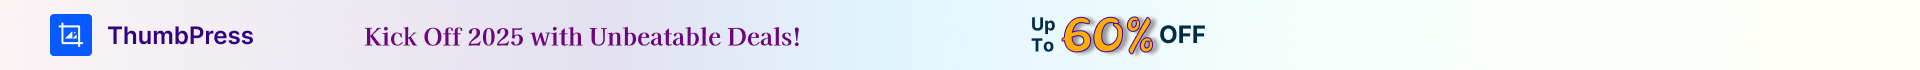
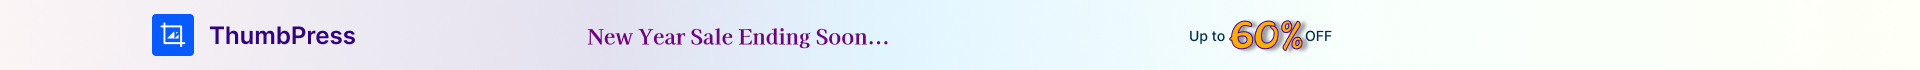
5.8.10

Changed region(s): [[0.0, 0.2, 0.4688, 0.8], [0.5312, 0.2286, 0.7188, 0.8]]

diff --git a/image-sizes/assets/css/settings/dashboard.css b/image-sizes/assets/css/settings/dashboard.css
@@ -1482,6 +1482,7 @@ ul.image_sizes-sortable.disable li span img.image_sizes-thumbnails-arrow-left {
 	background-size: contain;
 	background: url("../../img/kik-off.png") no-repeat;
 	background-position-y: center;
+	background-size: cover;
 }
 .image-sizes-dismissible-notice a {
 	text-decoration: none;
@@ -1505,7 +1506,7 @@ ul.image_sizes-sortable.disable li span img.image_sizes-thumbnails-arrow-left {
 	transform: scale(1.2);
 }
 .notice.notice-info.is-dismissible.image-sizes-dismissible-notice {
-	padding-right: 50px;
+	padding-right: 115px;
 }
 
 .image-sizes-dismissible-notice-content {

diff --git a/image-sizes/app/Settings.php b/image-sizes/app/Settings.php
@@ -134,9 +134,9 @@ class Settings extends Base {
 		    $upgrade_pro = [
 		        'id'            => "upgrade-to-pro",
 		        'parent'        => 'thumbpress',
-		        'label'         => __( 'New Year Sale (Up to 70% Off)', 'image-sizes' ), // Remove HTML tags
-		        'title'         => __( 'New Year Sale (Up to 70% Off)', 'image-sizes' ),
-		        'header'        => __( 'New Year Sale (Up to 70% Off)', 'image-sizes' ),
+		        'label'         => __( 'New Year Sale (Up to 60% Off)', 'image-sizes' ), // Remove HTML tags
+		        'title'         => __( 'New Year Sale (Up to 60% Off)', 'image-sizes' ),
+		        'header'        => __( 'New Year Sale (Up to 60% Off)', 'image-sizes' ),
 		        'priority'      => 100,
 		        'sections'      => [
 		            'upgrade-to-pro'=> [
@@ -151,7 +151,7 @@ class Settings extends Base {
 		    ];
 
 		    // Add HTML tags when rendering, not in the translation function
-		    $upgrade_pro['label'] = '<span style="font-weight: bold;">New Year Sale (Up to 70% Off)</span></span>';
+		    $upgrade_pro['label'] = '<span style="font-weight: bold;">New Year Sale (Up to 60% Off)</span></span>';
 
 		    new Settings_API( apply_filters( 'submenu_thumbpress_pro', $upgrade_pro ) );
 		}

diff --git a/image-sizes/image-sizes.php b/image-sizes/image-sizes.php
@@ -4,7 +4,7 @@
  * Plugin Name:			ThumbPress
  * Plugin URI:			https://thumbpress.co
  * Description:			A complete image and thumbnail management solution for WordPress.
- * Version:				5.8.9
+ * Version:				5.8.10
  * Requires at least:	5.0
  * Requires PHP:		7.0
  * Tested up to:		6.7
@@ -136,7 +136,7 @@ final class Plugin {
 		$this->plugin['file']			= THUMBPRESS;
 		$this->plugin['TextDomain']		= 'image-sizes';
 		$this->plugin['Name']			= __( 'ThumbPress', 'image-sizes' );
-		$this->plugin['Version']		= '5.8.8';
+		$this->plugin['Version']		= '5.8.10';
 		$this->plugin['server']			= apply_filters( 'image-sizes_server', 'https://my.pluggable.io' );
 		$this->plugin['icon']			= THUMBPRESS_ASSET . '/img/icon.png';
 		$this->plugin['depends']		= [];

diff --git a/image-sizes/app/Admin.php b/image-sizes/app/Admin.php
@@ -74,7 +74,7 @@ class Admin extends Base {
 
 	public function upgrade() {
 		$current_time = date_i18n('U');
-		if( ! get_option( 'image_sizes_year_first_notice' ) ){
+		if( ! get_option( 'image_sizes_year_notice' ) ){
 			foreach ( image_sizes_notices_values() as $id => $notice ) {
 				$data = [
 					'from' => $notice['from'],
@@ -84,7 +84,7 @@ class Admin extends Base {
 				$expiration_duration = $notice['to'] - $current_time; 
 				set_transient( $id, $data,  $expiration_duration );
 			}
-			update_option( 'image_sizes_year_first_notice', 1 );
+			update_option( 'image_sizes_year_notice', 1 );
 		}
 		
 		if( $this->version == get_option( "{$this->slug}_db-version" ) ) return;

diff --git a/image-sizes/inc/functions.php b/image-sizes/inc/functions.php
@@ -267,7 +267,7 @@ if( ! function_exists( 'image_sizes_notices_values' ) ) :
 		return [
 			'image_sizes_kikoff_notice' => [
 				'from'   		=> $current_time,
-				'to'    		=> strtotime( '2025-01-10 00:00:00' ),
+				'to'    		=> strtotime( '2025-01-20 00:00:00' ),
 				'button' 		=> __('Grab Now', 'image-sizes'),
 				'url'    		=> "https://thumbpress.co/pricing/?utm_source=in+plugin&utm_medium=notice&utm_campaign=new-year-2025",
 			],
